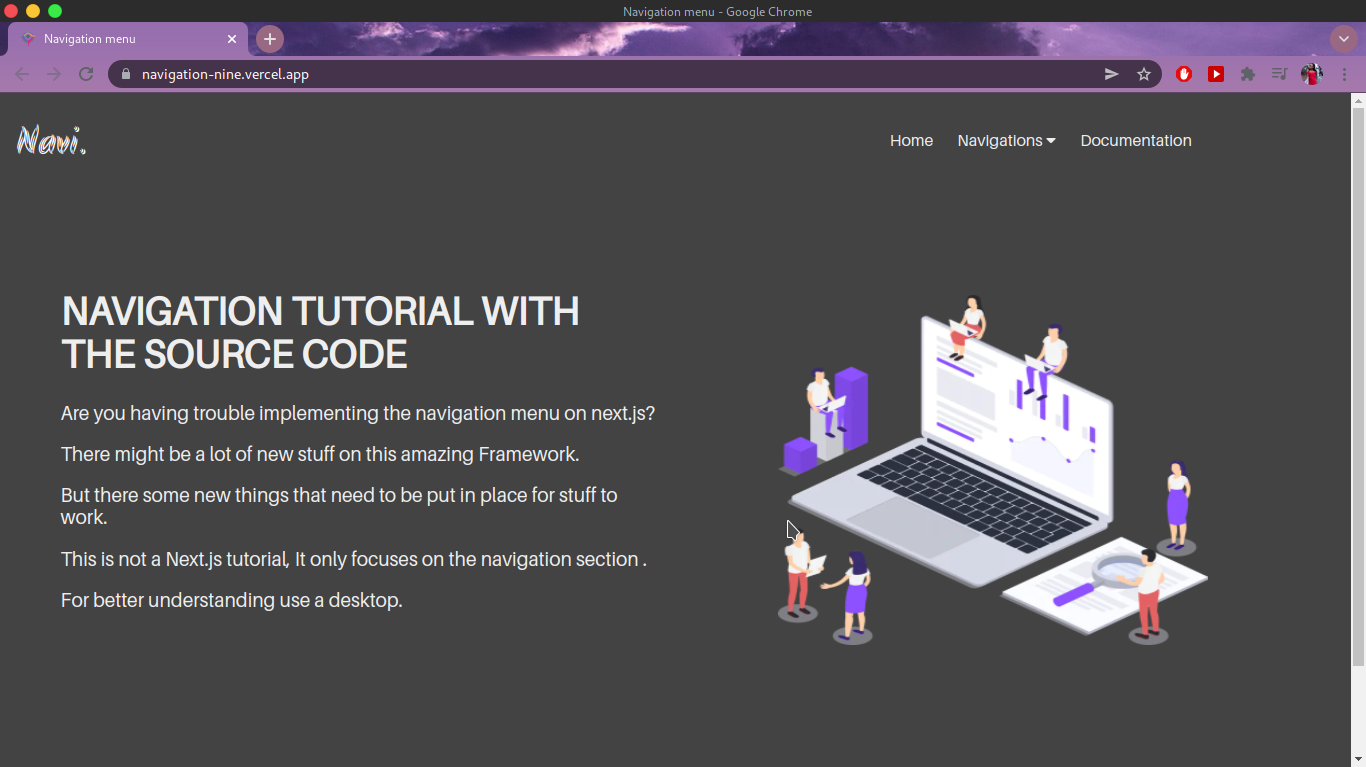
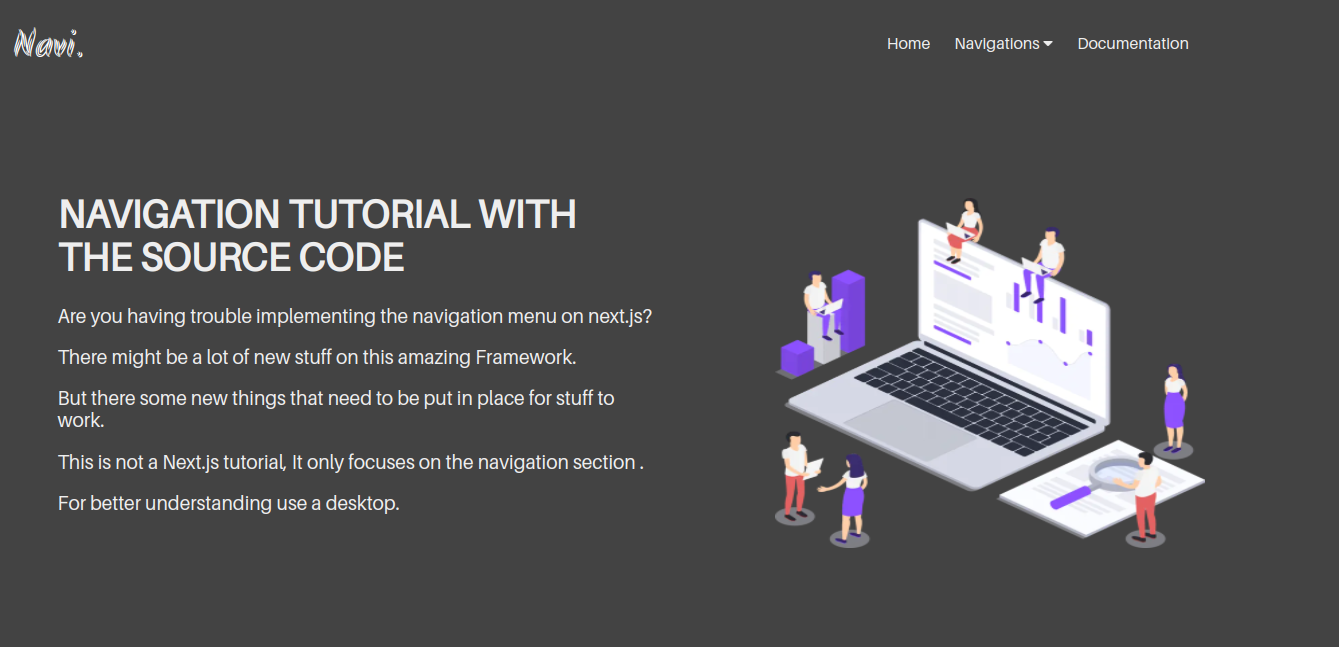
Images

diff --git a/components/website.js b/components/website.js
@@ -55,7 +55,7 @@ useEffect(()=>{
       </FadeInSection>
      <div className={styles.flex}>
           <div data-aos="flip-left" className={styles.left}>
-          <motion.img className={styles.webimage} variants={imageVariants} src={`/images/navigation.png`} />
+          <motion.img className={styles.webimage} variants={imageVariants} src={`/navigation.png`} />
           <div className={styles.description}>
              <div className={styles.buttoncenter}>
              <div className={styles.buttons}>
@@ -68,7 +68,7 @@ useEffect(()=>{
        
        
           <div data-aos="flip-left"  className={styles.right}>
-          <motion.img className={styles.webimage} variants={imageVariants} src={`/images/photography.png`} />
+          <motion.img className={styles.webimage} variants={imageVariants} src={`/photography.png`} />
           <div className={styles.description+' '+styles}>
             <div className={styles.buttoncenter}>
             <div className={styles.buttons}>

diff --git a/styles/Home.module.css b/styles/Home.module.css
@@ -140,7 +140,7 @@
   padding: 2%;
 }
 .webimage{
-  width: 100%;
+  width: 85%;
   padding: 2%;
   padding-bottom: 5%;
 }
@@ -401,13 +401,17 @@
    }
    .left{
     float: left;
-    width: 46%;
+    width: 40%;
+    height: 40%;
   }
   .right{
     float: right;
-    width: 46%;
+    width: 40%;
     padding-top: 0;
-    margin-top: 1%;
+    margin-top: 0%;
+  }
+  .flex{
+    padding: 3%;
   }
   .bluesection{
     padding: 0;
